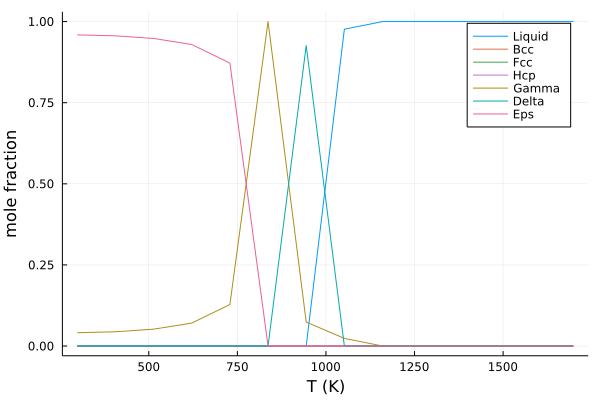
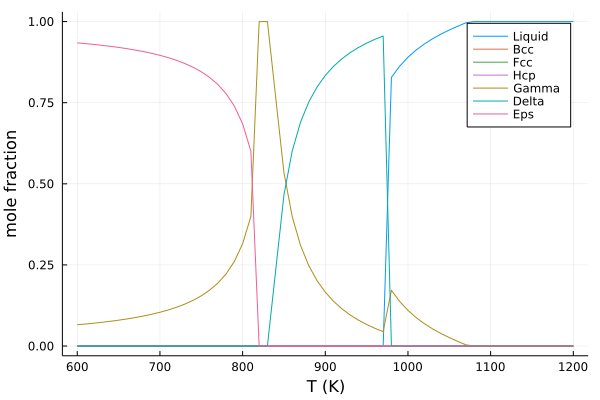
Update README.md

diff --git a/README.md b/README.md
@@ -105,13 +105,14 @@ Eps: 0.24864 mol
 Calculation of equlibirum solidification, or the temperature dependence of phase constitution:
 
 ```julia
-res = solidify(sys, X)
+Ts = 600:10:1200
+res = solidify(sys, X, Ts)
 ```
 
 ```terminal
 Solidification:
-        298.15 ≤ T ≤ 1698.15
-        14 calculations
+        600 ≤ T ≤ 1200
+        61 calculations
 ```
 
 Calmato currently support Plots for visualization of results:
